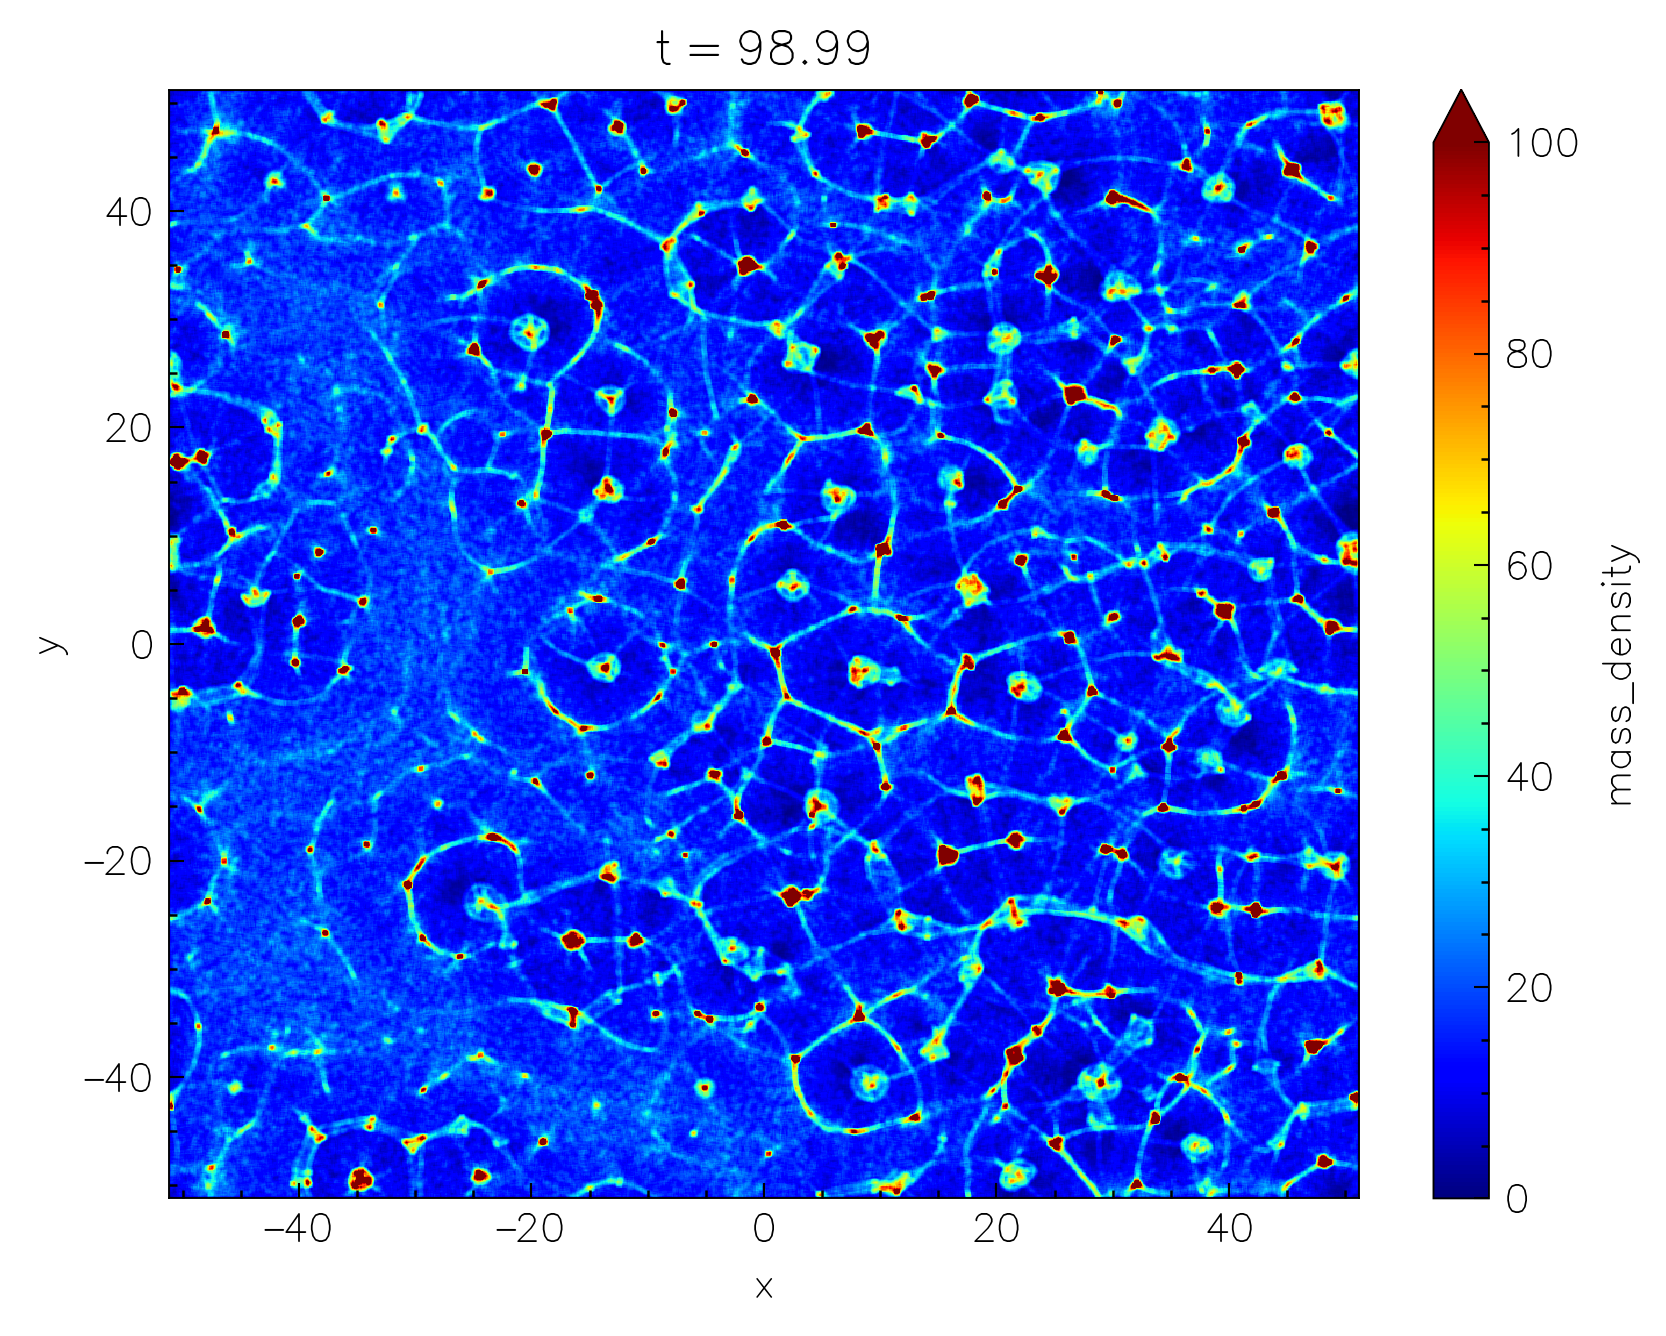
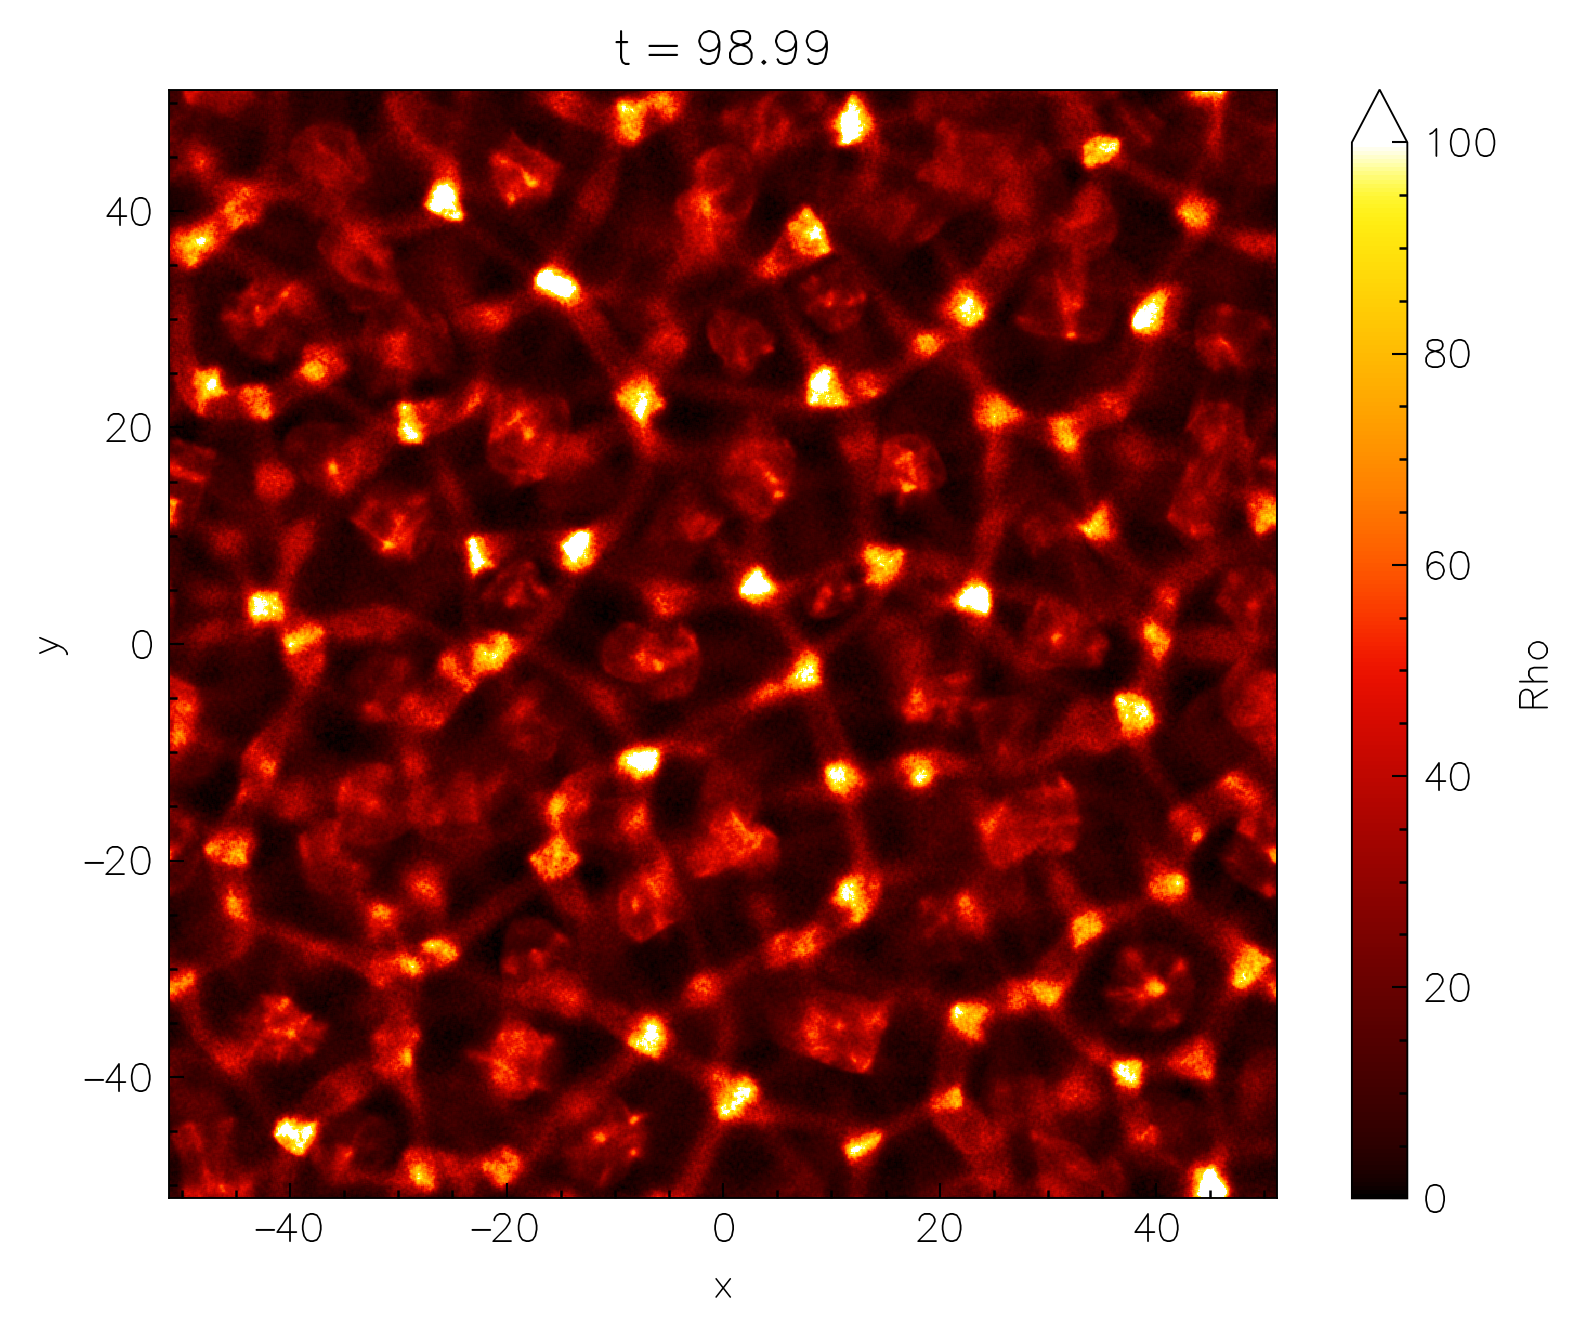
upd + particles

diff --git a/docs/howto/vis.md b/docs/howto/vis.md
@@ -11,25 +11,30 @@ The output is configured using the following configurations in the `input` file:
 
 ```toml
 [simulation]
-# title used for the output filename
-title   = "MySimulation"
+title   = "MySimulation" # (5)!
 
 # ...
 
 [output]
-# fields to write
-fields     = ["Bx", "Ei", "Rho_1_2", ...]
-# output format (current supported: "HDF5", or "disabled" for no output)
-format     = "HDF5"
-# interval between outputs (in the number of time steps)
-interval   = 100
-# smoothing stencil size for moments (in the number of cells) [defaults to 1]
-mom_smooth = 2
+format       = "HDF5" # (2)!
+fields       = ["Bx", "Ei", "Rho_1_2", ...] # (1)!
+particles    = ["X_1_2", "U_3_4", "W"] # (7)!
+interval     = 100 # (3)!
+mom_smooth   = 2 # (4)!
+prtl_stride  = 10 # (6)!
 ```
 
-Output is written in the run directory in a single `hdf5` file: `MySimulation.flds.h5` (at the moment only field output is supported). All the steps are written in the same file, and the time step is stored as an attribute of the dataset: `Step0`, `Step1`, `Step2`, etc. Thus to access, say, the `Ez` field at the 10th output step (not the same as the simulation timestep), one has to access the dataset `/Step9/Ez` in the `hdf5` file.
+1. fields to write
+2. output format (current supported: "HDF5", or "disabled" for no output)
+3. output interval (in the number of time steps)
+4. smoothing stencil size for moments (in the number of cells) [defaults to 1]
+5. title is used for the output filename
+6. stride used for particle output (write every `prtl_stride`-th particle) [defaults to 100]
+7. particle quantities to write
 
-Following is the list of the supported fields:
+Output is written in the run directory in a single `hdf5` file: `MySimulation.h5`. All the steps are written in the same file, and the time step is stored as an attribute of the dataset: `Step0`, `Step1`, `Step2`, etc. Thus to access, say, the `Ez` field at the 10th output step (not the same as the simulation timestep), one has to access the dataset `/Step9/Ez` in the `hdf5` file. If one needs the `X1` coordinates of particles of species 2 at the 5th output step, one has to access the dataset `/Step4/X1_2` in the `hdf5` file, etc.
+
+Following is the list of the supported fields
 
 | Field name | Description | Units |
 |------------|-------------|------|
@@ -40,11 +45,23 @@ Following is the list of the supported fields:
 | `N` | Number density |  $n_0$ |
 | `Tij` | Energy-momentum tensor (all components) | $m_0 n_0$ |
 
-!!! note
+and particle quantities
 
-    One can specify particular components to output. For instance, `E1` (or, e.g., `By`) will only output `Ex` (or, correspondigly, `By`). The same applies to the `Ji` and `Tij` fields. Additionally, `T0i` will output the `T00`, `T01`, and `T02` components, while `Tii` will output only the diagonal components: `T11`, `T22`, and `T33`. One can also specify the particle species which will be used to compute the moments: `Rho_1` (density of species 1), `N_2_3` (number density of species 2 and 3), `Tij_1_3` (energy-momentum tensor for species 1 and 3), etc. If no species are specified, the moments will be computed for all the species with $m_s \ne 0$.
+| Particle quantity | Description | Units |
+|-------------------|-------------|-------|
+| `X` | Coordinates (all components) | physical |
+| `U` | Four-velocities in the orthonormal frame (all components) | dimensionless |
+| `W` | Weights | dimensionless |
+
+!!! note "Refining fields and particle quantities for the output"
+
+    One can specify particular components to output for the fields. For instance, `E1` (or, e.g., `By`) will only output `Ex` (or, correspondigly, `By`). The same applies to the `Ji` and `Tij` fields. Additionally, `T0i` will output the `T00`, `T01`, and `T02` components, while `Tii` will output only the diagonal components: `T11`, `T22`, and `T33`. One can also specify the particle species which will be used to compute the moments or output particle quantities: `Rho_1` (density of species 1), `N_2_3` (number density of species 2 and 3), `Tij_1_3` (energy-momentum tensor for species 1 and 3), etc. Or for the particle quantities: `X_1_2` will write the coordinates of particles of species 1 and 2 only. If no species are specified, the moments will be computed for all the species with $m_s \ne 0$.
 
 All of the vector fields are interpolated to cell centers before the output, and converted to orthonormal basis. The particle-based moments are smoothed with a stencil (specified in the input file; `mom_smooth`) for each particle.
+
+!!! failure "Can one track particles at different times?"
+
+    Particle tracking (outputting the same batch of particles at every timestep) is unfortunately not yet implemented.
 
 ## `nt2.py`
 
@@ -65,17 +82,19 @@ Now simply import the `nt2` module and load the output data:
 
 ```python
 import nt2 # (1)!
-flds = nt2.Data("MySimulation.flds.h5")
+data = nt2.Data("MySimulation.h5")
 ```
 
 1. If working outside the `vis/` directory you might need to add the `vis/` to your path: `import sys; sys.path.append("vis")` in order to import `nt2`.
 
 Note, that even though the `h5` file can be quite large, the data is loaded lazily, so the memory consumption is minimal; data chunks are only loaded when they are actually needed for the analysis or visualization.
 
-Data selection is conveniently done with the `sel` and `isel` methods for the `xarray` Datasets ([more info](https://docs.xarray.dev/en/stable/user-guide/indexing.html)). For example, to select the `mass_density` field around physical time `t=98`, one can do:
+### Accessing fields
+
+Data selection is conveniently done with the `sel` and `isel` methods for the `xarray` Datasets ([more info](https://docs.xarray.dev/en/stable/user-guide/indexing.html)). For example, to select the `Rho` field around physical time `t=98`, one can do:
 
 ```python
-flds.Rho_1.sel(t=98, method="nearest") # (1)!
+data.Rho.sel(t=98, method="nearest") # (1)!
 ```
 
 1. The `method="nearest"` is used to select the closest time step to the requested time.
@@ -85,7 +104,7 @@ flds.Rho_1.sel(t=98, method="nearest") # (1)!
 We can then plot the selected data using the `plot` method of the `xarray` Dataset:
 
 ```python
-flds.Rho_1\
+data.Rho\
   .sel(t=98, method="nearest")\
   .plot(
     norm=mpl.colors.Normalize(0, 1e2),  # (2)!
@@ -98,7 +117,7 @@ flds.Rho_1\
 If the resolution is too high, one can also coarsen the data before plotting:
 
 ```python
-flds.Rho_1\
+data.Rho\
   .sel(t=98, method="nearest")\
   .coarsen(x=16, y=4).mean()\
   .plot(
@@ -109,7 +128,7 @@ flds.Rho_1\
 or downsample:
 
 ```python
-flds.Rho_1\
+data.Rho\
   .sel(t=98, method="nearest")\
   .isel(x=slice(None, None, 16), y=slice(None, None, 4))\ # (1)!
   .plot(
@@ -119,12 +138,12 @@ flds.Rho_1\
 
 1. The difference between `isel` and `sel` is that `isel` uses the integer indices along the given dimension, while `sel` uses the physical coordinates.
 
-![nt2demo1](../assets/images/howto/nt2-demo-2.png){width=50%, align=right} 
+![nt2demo2](../assets/images/howto/nt2-demo-2.png){width=50%, align=right} 
 
 One can also do more complicated things, such as building a 1D plot of the evolution of the mean $B^2$ in the box:
 
 ```python
-flds.Bx**2 + flds.By**2 + flds.Bz**2\
+data.Bx**2 + data.By**2 + data.Bz**2\
   .mean(dim=["x", "y"])\
   .plot()
 ```
@@ -132,11 +151,60 @@ flds.Bx**2 + flds.By**2 + flds.Bz**2\
 or make "waterfall" plots, collapsing the quantity along one of the axis, and plotting vs the other axis and time:
 
 ```python
-(flds.Rho_2 - flds.Rho_1)\
+(data.Rho_2 - data.Rho_1)\
   .mean(dim="x")\
   .plot(yincrease=False)
 ```
 
-!!! note
+### Accessing particles
+
+Particles are stored in the same `data` object and are lazily preloaded when one calls `nt2.Data(...)`, as we did above. To access the particle data, use `data.particles`, which returns a python dictionary where the key is particles species index, and the value is an `xarray` Dataset with the particle data. For example, to access the `x` and `y` coordinates of the first species, one can do:
+
+```python
+data.particles[1].x
+data.particles[1].y
+```
+
+The shape of the returned dataset is number of particles times the number of time steps. To select the data at a specific time step, one can use the same `sel` or `isel` methods mentioned above. For example, to access the 10-th output timestep of the 3-rd species, one can do:
+
+```python
+data.particles[3].isel(t=10).x
+```
+
+![nt2demo3](../assets/images/howto/nt2-demo-3.png){width=50%, align=right} 
+
+Scatter plotting the particles on a 2D plane is quite easy, since `xarray` has a built-in `plot.scatter` method:
+
+```python
+species_3 = data.particles[3]
+species_4 = data.particles[4]
+
+species_3.isel(t=-1)\
+  .plot.scatter(x="x", y="y", 
+                label=species_3.attrs["label"])
+species_4.isel(t=-1)\
+  .plot.scatter(x="x", y="y", 
+                label=species_4.attrs["label"])
+```
+
+!!! note "`isel` indexing"
+
+    `isel(t=-1)` selects the last time step.
+
+![nt2demo4](../assets/images/howto/nt2-demo-4.png){width=50%, align=right} 
+
+Or one can plot the same in phase space:
+
+```python
+species_3.isel(t=-1)\
+  .plot.scatter(x="ux", y="uy", 
+                label=species_3.attrs["label"])
+species_4.isel(t=-1)\
+  .plot.scatter(x="ux", y="uy", 
+                label=species_4.attrs["label"])
+```
+
+
+!!! note "`nt2` documentation"
 
     You can access the documentation of the `nt2` functions and methods of the `Data` object by calling `nt2.<function>?` in the jupyter notebook or `help(nt2.<function>)` in the python console.

diff --git a/docs/howto/compile-run.md b/docs/howto/compile-run.md
@@ -8,8 +8,8 @@ hide:
 To compile the code you need to have the following dependencies installed:
 
   - [`CMake`](https://cmake.org/) (version >= 3.16; verify by running `cmake --version`).
-  - [`GCC`](https://gcc.gnu.org/) (version >= 8.3.1; verify by running `gcc --version`) or [Intel C++ compiler](https://www.intel.com/content/www/us/en/developer/tools/oneapi/dpc-compiler.html) (version >= 19.1 or higher; verify by running `icc --version`).
-  - to compile for GPUs, you need to have [`CUDA`](https://developer.nvidia.com/cuda-toolkit) (11.0 <= version < 12; verify by running `nvcc --version`) installed.
+  - [`GCC`](https://gcc.gnu.org/) (version >= 8.3.1; verify by running `gcc --version`) or [Intel C++ compiler](https://www.intel.com/content/www/us/en/developer/tools/oneapi/dpc-compiler.html) (version >= 19.1 or higher; verify by running `icx --version`).
+  - to compile for GPUs, you need to have [`CUDA`](https://developer.nvidia.com/cuda-toolkit) (version >= 11.0; verify by running `nvcc --version`) installed.
 
 ## Compilation workflow
 
@@ -48,12 +48,12 @@ To compile the code you need to have the following dependencies installed:
     | --- | --- | --- | --- |
     | `Kokkos_ENABLE_CUDA` | enable CUDA | `ON`, `OFF` | `OFF` |
     | `Kokkos_ENABLE_OPENMP` | enable OpenMP | `ON`, `OFF` | `OFF` |
-    | `CMAKE_CXX_COMPILER` | C++ compiler | whichever compiler is available on your system | CMake/Kokkos will attempt to find automatically |
+    | `Kokkos_ARCH_***` | use particular CPU/GPU architecture | see [Kokkos documentation](https://kokkos.github.io/kokkos-core-wiki/keywords.html#architecture-keywords) | `Kokkos` attempts to determine automatically |
 
 
     !!! note
         
-        When simply compiling with `-D Kokkos_ENABLE_CUDA=ON` without additional flags, `CMake` will try to deduce the GPU architecture based on the machine you are compiling on. Oftentimes this might not be the same as the architecture of the machine you are planning to run on (and sometimes the former might lack GPU altogether). To be more explicit, you can specify the GPU architecture manually using the `-D Kokkos_ARCH_XXX=ON` flags. For example, to explicitly compile for `A100` GPUs, you can use `-D Kokkos_ARCH_AMPERE80=ON`. For `V100` -- use `-D Kokkos_ARCH_VOLTA70=ON`.
+        When simply compiling with `-D Kokkos_ENABLE_CUDA=ON` without additional flags, `CMake` will try to deduce the GPU architecture based on the machine you are compiling on. Oftentimes this might not be the same as the architecture of the machine you are planning to run on (and sometimes the former might lack GPU altogether). To be more explicit, you can specify the GPU architecture manually using the `-D Kokkos_ARCH_***=ON` flags. For example, to explicitly compile for `A100` GPUs, you can use `-D Kokkos_ARCH_AMPERE80=ON`. For `V100` -- use `-D Kokkos_ARCH_VOLTA70=ON`.
 
 
 1. After `cmake` is done configuring the code, a directory named `build` will be created in the root directory. Proceed there and _compile_ the code using `make`:
@@ -61,7 +61,7 @@ To compile the code you need to have the following dependencies installed:
   make -j
   ```
 
-1. After the compilation is done, you will find the corresponding executable called `<executable>.xc` in the `build/src/` directory. That's it! You can now run the code.
+1. After the compilation is done, you will find the corresponding executable called `<executable>.xc` in the `build/src/` directory. That's it! You can now finally _run_ the code.
 
 ## Running
 

diff --git a/docs/guide/ranges.md b/docs/guide/ranges.md
@@ -1,0 +1,29 @@
+---
+hide:
+  - footer
+---
+
+`Kokkos` loops accept `Kokkos::RangePolicy` or `Kokkos::MDRangePolicy` objects that specify the n-dimensional range of the loop. `Entity` embeds around these range objects and provides convenient aliases to the most common use cases. 
+
+=== "`.rangeAllCells()`"
+
+    | dimension | return object | ranges |
+    |-----------|---------------|-------------|
+    | 1D        | `Kokkos::RangePolicy<>` | $i_1\in [0,N_1)$ | 
+    | 2D        | `Kokkos::MDRangePolicy<Rank<2>>` | $i_1\in [0,N_1)$, $i_2\in [0,N_2)$ | 
+    | 3D        | `Kokkos::MDRangePolicy<Rank<3>>` | $i_1\in [0,N_1)$, $i_2\in [0,N_2)$, $i_3\in [0,N_3)$ | 
+
+=== "`.rangeActiveCells()`"
+
+    | dimension | return object | ranges |
+    |-----------|---------------|-------------|
+    | 1D        | `Kokkos::RangePolicy<>` | $i_1\in [N_G,N_1-N_G)$ | 
+    | 2D        | `Kokkos::MDRangePolicy<Rank<2>>` | $i_1\in [N_G,N_1-N_G)$, $i_2\in [N_G,N_2-N_G)$ | 
+    | 3D        | `Kokkos::MDRangePolicy<Rank<3>>` | $i_1\in [N_G,N_1-N_G)$, $i_2\in [N_G,N_2-N_G)$, $i_3\in [N_G,N_3-N_G)$ | 
+
+=== "`.rangeCells(const boxRegion<D>&)`"
+
+    `boxRegion<D>` is an auxiliary object (basically a tuple of size `D`) to specify a custom region of cells. It contains `CellLayer` objects by the number of dimensions. For example:
+    ```c++
+    boxRegion<2> left{CellLayer::minActiveLayer, CellLayer::allActiveLayer};
+    ```

diff --git a/docs/info/coords.md b/docs/info/coords.md
@@ -7,19 +7,6 @@ hide:
 
 Below for visualization purposes we demonstrate three different axisymmetric grids: a regular spherical grid $(r,\theta,\phi)$, an equal area grid $(x_1,x_2,\phi)$, where $x_1 = \log{(r)}$, and $x_2 = -\cos{\theta}$, and a "quasi-spherical" grid $(x_1,x_2,\phi)$, where $x_1 = \log{(r - r_0)}$, and $\theta = x_2 + 2h x_2 (\pi - 2 x_2) (\pi - x_2) / \pi^2$, where $r_0$ and $h$ are user-controlled parameters.
 
-??? note "Code insight"
-
-    In the `entity` we implement the regular spherical and the quasi-spherical grids. The choice of either is specified in the input file:
-
-    ```toml
-    [domain]
-    coord_sys       = "spherical"   # or "qspherical"
-    qsph_r0         = 0.3           # r_0 parameter (ignored when "spherical")
-    qsph_h          = 0.9           # h parameter (ignored when "spherical")
-    ```
-
-    Notice, that one has to also configure the code with the `-curv` flag to use either of grids.
-
 <div id="plot_ax_01" class="p5canvas"></div>
 
 <!-- <script src="/how/coord_sys_ax.js" type="text/javascript"></script> -->

diff --git a/docs/index.md b/docs/index.md
@@ -30,7 +30,7 @@ hide:
 
 ::/cards::
 
-!!! warning
+!!! warning "Wiki is under construction"
 
     This wiki page is under active construction and does not properly reflect the current development stage. If you don't find answers to your questions, please feel free to contact via email [haykh[dot]astro[at]gmail](mailto:haykh.astro+entity@gmail.com) or submit a [github issue](https://github.com/haykh/entity/issues). If you are interested in working with us, please contact us at [haykh[dot]astro[at]gmail](mailto:haykh.astro+entity@gmail.com).
 
